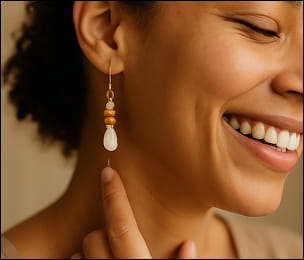
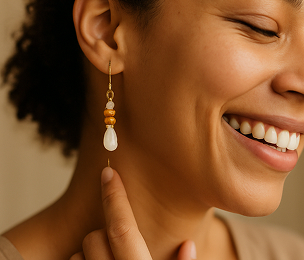
Testimonials (#5)
* add all icons

* add testimonials markup

* add tablet styles

* add desktop styles

* change desktop image 1-1/1-2

* eliminating duplicate сode

diff --git a/src/partials/testimonials.html b/src/partials/testimonials.html
@@ -1,1 +1,189 @@
-<section>Testimonials</section>
+<section class="container section" id="testimonials">
+  <h2 class="testimonials-title">Customer testimonials</h2>
+  <p class="testimonials-descr">
+    Absolutely love my new earrings! They are stunning.
+  </p>
+
+  <ul class="testimonials-comment-list">
+    <li class="testimonials-comment-item">
+      <picture class="testimonials-picture">
+        <source
+          media="(min-width: 1440px )"
+          srcset="
+            /img/testimonials/desktop/desktop-testimonials-1-1x.jpg 1x,
+            /img/testimonials/desktop/desktop-testimonials-1-2x.jpg 2x
+          "
+        />
+        <source
+          media="(min-width: 768px)"
+          srcset="
+            /img/testimonials/tablet/tablet-testimonials-1-1x.jpg 1x,
+            /img/testimonials/tablet/tablet-testimonials-1-2x.jpg 2x
+          "
+        />
+        <img
+          class="testimonials-image"
+          src="/img/testimonials/mobile/mobile-testimonials-1-1x.jpg"
+          srcset="
+            /img/testimonials/mobile/mobile-testimonials-1-1x.jpg 1x,
+            /img/testimonials/mobile/mobile-testimonials-1-2x.jpg 2x
+          "
+          alt="Girl shows off handmade gold earring with agate and moonstone beads."
+          width="335"
+        />
+      </picture>
+      <picture class="testimonials-picture">
+        <source
+          media="(min-width: 1440px )"
+          srcset="
+            /img/testimonials/desktop/desktop-testimonials-2-1x.jpg 1x,
+            /img/testimonials/desktop/desktop-testimonials-2-2x.jpg 2x
+          "
+        />
+        <source
+          media="(min-width: 768px)"
+          srcset="
+            /img/testimonials/tablet/tablet-testimonials-2-1x.jpg 1x,
+            /img/testimonials/tablet/tablet-testimonials-2-2x.jpg 2x
+          "
+        />
+        <img
+          class="testimonials-image"
+          src="/img/testimonials/mobile/mobile-testimonials-2-1x.jpg"
+          srcset="
+            /img/testimonials/mobile/mobile-testimonials-2-1x.jpg 1x,
+            /img/testimonials/mobile/mobile-testimonials-2-2x.jpg 2x
+          "
+          alt="Man admiring handmade silver pendant with agate stone"
+          width="335"
+        />
+      </picture>
+      <div class="testimonial-comment-wrap">
+        <ul class="testimonial-rating-list">
+          <li class="testimonials-rating-item">
+            <svg class="testimonials-star" width="24" height="24">
+              <use href="../img/sprite.svg#star-filed-icon"></use>
+            </svg>
+          </li>
+          <li class="testimonials-rating-item">
+            <svg class="testimonials-star" width="24" height="24">
+              <use href="../img/sprite.svg#star-filed-icon"></use>
+            </svg>
+          </li>
+          <li class="testimonials-rating-item">
+            <svg class="testimonials-star" width="24" height="24">
+              <use href="../img/sprite.svg#star-filed-icon"></use>
+            </svg>
+          </li>
+          <li class="testimonials-rating-item">
+            <svg class="testimonials-star" width="24" height="24">
+              <use href="../img/sprite.svg#star-filed-icon"></use>
+            </svg>
+          </li>
+          <li class="testimonials-rating-item">
+            <svg class="testimonials-star-unfilled" width="24" height="24">
+              <use href="../img/sprite.svg#star-outline-icon"></use>
+            </svg>
+          </li>
+        </ul>
+
+        <figure class="testimonials-figure">
+          <blockquote class="testimonials-quote">
+            "Each piece tells a story, and I love mine!"
+          </blockquote>
+          <figcaption class="testimonials-figcaption">Thomas Mans</figcaption>
+        </figure>
+      </div>
+    </li>
+    <li class="testimonials-comment-item">
+      <div class="testimonial-comment-wrap">
+        <ul class="testimonial-rating-list">
+          <li class="testimonials-rating-item">
+            <svg class="testimonials-star" width="24" height="24">
+              <use href="../img/sprite.svg#star-filed-icon"></use>
+            </svg>
+          </li>
+          <li class="testimonials-rating-item">
+            <svg class="testimonials-star" width="24" height="24">
+              <use href="../img/sprite.svg#star-filed-icon"></use>
+            </svg>
+          </li>
+          <li class="testimonials-rating-item">
+            <svg class="testimonials-star" width="24" height="24">
+              <use href="../img/sprite.svg#star-filed-icon"></use>
+            </svg>
+          </li>
+          <li class="testimonials-rating-item">
+            <svg class="testimonials-star" width="24" height="24">
+              <use href="../img/sprite.svg#star-filed-icon"></use>
+            </svg>
+          </li>
+          <li class="testimonials-rating-item">
+            <svg class="testimonials-star" width="24" height="24">
+              <use href="../img/sprite.svg#star-filed-icon"></use>
+            </svg>
+          </li>
+        </ul>
+
+        <figure class="testimonials-figure">
+          <blockquote class="testimonials-quote">
+            "The craftsmanship is exquisite, and I feel unique wearing it."
+          </blockquote>
+          <figcaption class="testimonials-figcaption">Jane Edison</figcaption>
+        </figure>
+      </div>
+      <picture class="testimonials-picture">
+        <source
+          media="(min-width: 1440px )"
+          srcset="
+            /img/testimonials/desktop/desktop-testimonials-3-1x.jpg 1x,
+            /img/testimonials/desktop/desktop-testimonials-3-2x.jpg 2x
+          "
+        />
+        <source
+          media="(min-width: 768px)"
+          srcset="
+            /img/testimonials/tablet/tablet-testimonials-3-1x.jpg 1x,
+            /img/testimonials/tablet/tablet-testimonials-3-2x.jpg 2x
+          "
+        />
+        <img
+          class="testimonials-image"
+          src="/img/testimonials/mobile/mobile-testimonials-3-1x.jpg"
+          srcset="
+            /img/testimonials/mobile/mobile-testimonials-3-1x.jpg 1x,
+            /img/testimonials/mobile/mobile-testimonials-3-2x.jpg 2x
+          "
+          alt="Demonstration of a handmade leather knitted bracelet with topaz"
+          width="335"
+        />
+      </picture>
+      <picture class="testimonials-picture">
+        <source
+          media="(min-width: 1440px )"
+          srcset="
+            /img/testimonials/desktop/desktop-testimonials-4-1x.jpg 1x,
+            /img/testimonials/desktop/desktop-testimonials-4-2x.jpg 2x
+          "
+        />
+        <source
+          media="(min-width: 768px)"
+          srcset="
+            /img/testimonials/tablet/tablet-testimonials-4-1x.jpg 1x,
+            /img/testimonials/tablet/tablet-testimonials-4-2x.jpg 2x
+          "
+        />
+        <img
+          class="testimonials-image"
+          src="/img/testimonials/mobile/mobile-testimonials-4-1x.jpg"
+          srcset="
+            /img/testimonials/mobile/mobile-testimonials-4-1x.jpg 1x,
+            /img/testimonials/mobile/mobile-testimonials-4-2x.jpg 2x
+          "
+          alt="Demonstration of a handmade silver ring with a clear quartz stone"
+          width="335"
+        />
+      </picture>
+    </li>
+  </ul>
+</section>

diff --git a/src/css/testimonials.css b/src/css/testimonials.css
@@ -1,0 +1,125 @@
+figure {
+  margin: 0;
+}
+blockquote {
+  margin: 0;
+}
+figcaption {
+  font-style: normal;
+}
+.section {
+  padding-block: 64px;
+}
+
+.testimonials-title {
+  font-family: var(--second-family);
+  font-weight: 400;
+  font-size: 36px;
+  line-height: 1.2;
+  letter-spacing: -0.01em;
+  text-align: center;
+  color: var(--main-text-color);
+
+  margin-bottom: 24px;
+}
+.testimonials-descr {
+  font-weight: 400;
+  font-size: 16px;
+  line-height: 1.5;
+  text-align: center;
+  color: var(--main-text-color);
+
+  margin-bottom: 40px;
+}
+.testimonials-comment-list {
+  display: flex;
+  flex-direction: column;
+  align-items: center;
+  gap: 24px;
+}
+.testimonials-comment-item {
+  display: flex;
+  flex-direction: column;
+  align-items: stretch;
+  gap: 24px;
+}
+
+.testimonial-comment-wrap {
+  min-height: 214px;
+  width: 100%;
+  display: flex;
+  flex-direction: column;
+
+  border: var(--wrap-border);
+  padding: 32px;
+  background: var(--wrap-bg-color);
+}
+.testimonial-rating-list {
+  display: flex;
+  align-items: center;
+  gap: 4px;
+  margin-bottom: 24px;
+}
+.testimonials-rating-item {
+  max-height: 24px;
+}
+.testimonials-star {
+  fill: var(--icons-fill);
+}
+.testimonials-star-unfilled {
+  stroke: var(--icons-fill);
+  fill: transparent;
+}
+.testimonials-figure {
+  display: flex;
+  flex-direction: column;
+  flex-grow: 1;
+}
+
+.testimonials-quote {
+  font-weight: 400;
+  font-size: 18px;
+  line-height: 1.5;
+  color: var(--main-text-color);
+
+  margin-bottom: auto;
+}
+.testimonials-figcaption {
+  font-weight: 600;
+  font-size: 16px;
+  line-height: 1.5;
+  color: var(--main-text-color);
+}
+
+/* Styles for Tablet devices */
+@media only screen and (min-width: 768px) {
+  .testimonials-comment-item {
+    flex-direction: row;
+  }
+  .testimonials-picture {
+    min-width: 203px;
+  }
+}
+
+/* Styles for Desktop devices */
+@media only screen and (min-width: 1440px) {
+  .testimonials-title {
+    font-size: 48px;
+  }
+  .testimonials-descr {
+    margin-bottom: 80px;
+  }
+  .testimonials-comment-list {
+    gap: 32px;
+  }
+  .testimonials-comment-item {
+    gap: 32px;
+  }
+  .testimonials-picture {
+    min-width: 304px;
+  }
+
+  .testimonial-comment-wrap {
+    min-width: 640px;
+  }
+}
